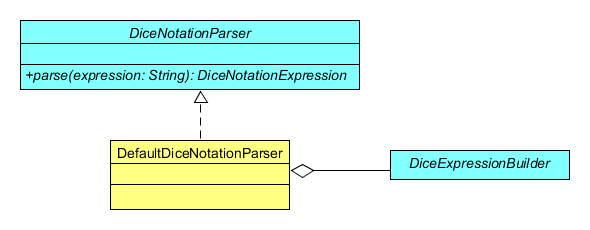
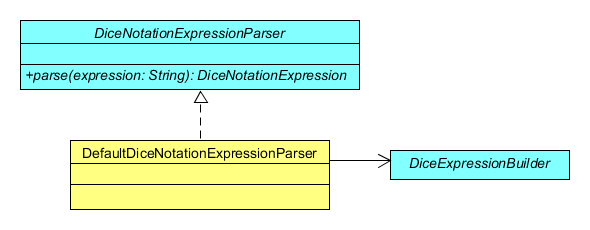
Divided grammar into lexer and parser rules

Changed region(s): [[0.0915, 0.6087, 0.6712, 0.913], [0.1525, 0.1217, 0.4881, 0.1826]]

diff --git a/src/main/java/com/wandrell/tabletop/dice/parser/DefaultDiceNotationExpressionParser.java b/src/main/java/com/wandrell/tabletop/dice/parser/DefaultDiceNotationExpressionParser.java
@@ -23,8 +23,8 @@ import org.antlr.v4.runtime.CharStreams;
 import org.antlr.v4.runtime.CommonTokenStream;
 import org.antlr.v4.runtime.TokenStream;
 
-import com.wandrell.tabletop.dice.generated.DiceNotationGrammarLexer;
-import com.wandrell.tabletop.dice.generated.DiceNotationGrammarParser;
+import com.wandrell.tabletop.dice.generated.DiceNotationLexer;
+import com.wandrell.tabletop.dice.generated.DiceNotationParser;
 import com.wandrell.tabletop.dice.notation.DiceNotationExpression;
 import com.wandrell.tabletop.dice.parser.listener.DefaultDiceExpressionBuilder;
 import com.wandrell.tabletop.dice.parser.listener.DefaultErrorListener;
@@ -43,7 +43,8 @@ import com.wandrell.tabletop.dice.roller.Roller;
  * 
  * @author Bernardo Mart&iacute;nez Garrido
  */
-public final class DefaultDiceNotationParser implements DiceNotationParser {
+public final class DefaultDiceNotationExpressionParser
+        implements DiceNotationExpressionParser {
 
     /**
      * Visitor used to build the returned object.
@@ -59,7 +60,7 @@ public final class DefaultDiceNotationParser implements DiceNotationParser {
      * <p>
      * It makes use of a {@link DefaultDiceExpressionBuilder}.
      */
-    public DefaultDiceNotationParser() {
+    public DefaultDiceNotationExpressionParser() {
         super();
 
         expressionBuilder = new DefaultDiceExpressionBuilder();
@@ -71,7 +72,8 @@ public final class DefaultDiceNotationParser implements DiceNotationParser {
      * @param builder
      *            builder to generate the returned tree
      */
-    public DefaultDiceNotationParser(final DiceExpressionBuilder builder) {
+    public DefaultDiceNotationExpressionParser(
+            final DiceExpressionBuilder builder) {
         super();
 
         expressionBuilder = checkNotNull(builder,
@@ -86,7 +88,7 @@ public final class DefaultDiceNotationParser implements DiceNotationParser {
      * @param roller
      *            roller for the dice expressions
      */
-    public DefaultDiceNotationParser(final Roller roller) {
+    public DefaultDiceNotationExpressionParser(final Roller roller) {
         super();
 
         expressionBuilder = new DefaultDiceExpressionBuilder(roller);
@@ -94,7 +96,7 @@ public final class DefaultDiceNotationParser implements DiceNotationParser {
 
     @Override
     public final DiceNotationExpression parse(final String expression) {
-        final DiceNotationGrammarParser parser; // ANTLR parser
+        final DiceNotationParser parser; // ANTLR parser
 
         checkNotNull(expression, "Received a null pointer as string");
 
@@ -123,17 +125,17 @@ public final class DefaultDiceNotationParser implements DiceNotationParser {
      *            expression used to generate the parser
      * @return an ANTLR4 parser tailored for the expression
      */
-    private final DiceNotationGrammarParser
+    private final DiceNotationParser
             buildDiceNotationParser(final String expression) {
-        final CharStream stream;              // Input stream for the expression
-        final DiceNotationGrammarLexer lexer; // Lexer for the expression tokens
-        final TokenStream tokens;             // Expression tokens
+        final CharStream stream;       // Input stream for the expression
+        final DiceNotationLexer lexer; // Lexer for the expression tokens
+        final TokenStream tokens;      // Expression tokens
 
         stream = CharStreams.fromString(expression);
-        lexer = new DiceNotationGrammarLexer(stream);
+        lexer = new DiceNotationLexer(stream);
         tokens = new CommonTokenStream(lexer);
 
-        return new DiceNotationGrammarParser(tokens);
+        return new DiceNotationParser(tokens);
     }
 
     /**

diff --git a/src/test/java/com/wandrell/tabletop/dice/test/integration/parser/AbstractITDefaultDiceNotationExpressionParser.java b/src/test/java/com/wandrell/tabletop/dice/test/integration/parser/AbstractITDefaultDiceNotationExpressionParser.java
@@ -17,22 +17,22 @@
 package com.wandrell.tabletop.dice.test.integration.parser;
 
 import com.wandrell.tabletop.dice.notation.DiceNotationExpression;
-import com.wandrell.tabletop.dice.parser.DefaultDiceNotationParser;
-import com.wandrell.tabletop.dice.parser.DiceNotationParser;
+import com.wandrell.tabletop.dice.parser.DefaultDiceNotationExpressionParser;
+import com.wandrell.tabletop.dice.parser.DiceNotationExpressionParser;
 import com.wandrell.tabletop.dice.roller.DefaultRoller;
 
 /**
- * Abstract base test for the {@code DefaultDiceNotationParser}.
+ * Abstract base test for the {@code DefaultDiceNotationExpressionParser}.
  * 
  * @author Bernardo Mart&iacute;nez Garrido
  *
  */
-public abstract class AbstractITDefaultDiceNotationParser {
+public abstract class AbstractITDefaultDiceNotationExpressionParser {
 
     /**
      * Default constructor.
      */
-    public AbstractITDefaultDiceNotationParser() {
+    public AbstractITDefaultDiceNotationExpressionParser() {
         super();
     }
 
@@ -46,9 +46,9 @@ public abstract class AbstractITDefaultDiceNotationParser {
      * @return the parsed object
      */
     protected final DiceNotationExpression parse(final String expression) {
-        final DiceNotationParser parser; // Parser to test
+        final DiceNotationExpressionParser parser; // Parser to test
 
-        parser = new DefaultDiceNotationParser(new DefaultRoller());
+        parser = new DefaultDiceNotationExpressionParser(new DefaultRoller());
 
         return parser.parse(expression);
     }

diff --git a/src/main/java/com/wandrell/tabletop/dice/parser/listener/DefaultDiceExpressionBuilder.java b/src/main/java/com/wandrell/tabletop/dice/parser/listener/DefaultDiceExpressionBuilder.java
@@ -24,10 +24,10 @@ import org.antlr.v4.runtime.tree.TerminalNode;
 
 import com.wandrell.tabletop.dice.DefaultDice;
 import com.wandrell.tabletop.dice.Dice;
-import com.wandrell.tabletop.dice.generated.DiceNotationGrammarBaseListener;
-import com.wandrell.tabletop.dice.generated.DiceNotationGrammarParser.BinaryOpContext;
-import com.wandrell.tabletop.dice.generated.DiceNotationGrammarParser.DiceContext;
-import com.wandrell.tabletop.dice.generated.DiceNotationGrammarParser.FunctionContext;
+import com.wandrell.tabletop.dice.generated.DiceNotationBaseListener;
+import com.wandrell.tabletop.dice.generated.DiceNotationParser.BinaryOpContext;
+import com.wandrell.tabletop.dice.generated.DiceNotationParser.DiceContext;
+import com.wandrell.tabletop.dice.generated.DiceNotationParser.FunctionContext;
 import com.wandrell.tabletop.dice.notation.DiceNotationExpression;
 import com.wandrell.tabletop.dice.notation.operand.DefaultDiceOperand;
 import com.wandrell.tabletop.dice.notation.operand.DiceOperand;
@@ -51,8 +51,8 @@ import com.wandrell.tabletop.dice.roller.Roller;
  * 
  * @author Bernardo Mart&iacute;nez Garrido
  */
-public final class DefaultDiceExpressionBuilder extends
-        DiceNotationGrammarBaseListener implements DiceExpressionBuilder {
+public final class DefaultDiceExpressionBuilder extends DiceNotationBaseListener
+        implements DiceExpressionBuilder {
 
     /**
      * Operator which indicates the operation is an addition.

diff --git a/src/main/java/com/wandrell/tabletop/dice/parser/package-info.java b/src/main/java/com/wandrell/tabletop/dice/parser/package-info.java
@@ -20,12 +20,12 @@
  * These will take a string with a dice notation expression and return a tree of
  * dice notation model objects.
  * <p>
- * The {@link com.wandrell.tabletop.dice.parser.DiceNotationParser
- * DiceNotationParser} allows creating custom parsers, but one is already
- * implemented, the
- * {@link com.wandrell.tabletop.dice.parser.DefaultDiceNotationParser
- * DefaultDiceNotationParser}, which makes use of the classes generated from an
- * ANTLR4 grammar to parse dice expressions.
+ * The {@link com.wandrell.tabletop.dice.parser.DiceNotationExpressionParser
+ * DiceNotationExpressionParser} allows creating custom parsers, but one is
+ * already implemented, the
+ * {@link com.wandrell.tabletop.dice.parser.DefaultDiceNotationExpressionParser
+ * DefaultDiceNotationExpressionParser}, which makes use of the classes
+ * generated from an ANTLR4 grammar to parse dice expressions.
  */
 
 package com.wandrell.tabletop.dice.parser;

diff --git a/src/test/java/com/wandrell/tabletop/dice/test/integration/parser/ITDefaultDiceNotationExpressionParserBinaryOperation.java b/src/test/java/com/wandrell/tabletop/dice/test/integration/parser/ITDefaultDiceNotationExpressionParserBinaryOperation.java
@@ -25,18 +25,18 @@ import com.wandrell.tabletop.dice.notation.operation.AdditionOperation;
 import com.wandrell.tabletop.dice.notation.operation.BinaryOperation;
 
 /**
- * Integration tests for {@code DefaultDiceNotationParser}, checking that it
+ * Integration tests for {@code DefaultDiceNotationExpressionParser}, checking that it
  * parses simple binary operations.
  * 
  * @author Bernardo Mart&iacute;nez Garrido
  */
-public final class ITDefaultDiceNotationParserBinaryOperation
-        extends AbstractITDefaultDiceNotationParser {
+public final class ITDefaultDiceNotationExpressionParserBinaryOperation
+        extends AbstractITDefaultDiceNotationExpressionParser {
 
     /**
      * Default constructor.
      */
-    public ITDefaultDiceNotationParserBinaryOperation() {
+    public ITDefaultDiceNotationExpressionParserBinaryOperation() {
         super();
     }
 

diff --git a/src/main/java/com/wandrell/tabletop/dice/parser/listener/package-info.java b/src/main/java/com/wandrell/tabletop/dice/parser/listener/package-info.java
@@ -19,12 +19,12 @@
  * <p>
  * The {@link com.wandrell.tabletop.dice.parser.listener.DiceExpressionBuilder
  * DiceExpressionBuilder} is used by the
- * {@link com.wandrell.tabletop.dice.parser.DefaultDiceNotationParser
- * DefaultDiceNotationParser} as a visitor. It will create the returned dice
+ * {@link com.wandrell.tabletop.dice.parser.DefaultDiceNotationExpressionParser
+ * DefaultDiceNotationExpressionParser} as a visitor. It will create the returned dice
  * notation model tree as it goes through the parsed grammar tree.
  * <p>
  * The {@link com.wandrell.tabletop.dice.parser.listener.DefaultErrorListener
- * DefaultErrorListener} is also used by the {@code DefaultDiceNotationParser},
+ * DefaultErrorListener} is also used by the {@code DefaultDiceNotationExpressionParser},
  * but to throw exceptions when there is a parsing error.
  */
 

diff --git a/src/test/java/com/wandrell/tabletop/dice/test/integration/parser/ITDefaultDiceNotationExpressionParserDice.java b/src/test/java/com/wandrell/tabletop/dice/test/integration/parser/ITDefaultDiceNotationExpressionParserDice.java
@@ -24,18 +24,18 @@ import com.wandrell.tabletop.dice.notation.DiceNotationExpression;
 import com.wandrell.tabletop.dice.notation.operand.DiceOperand;
 
 /**
- * Integration tests for {@code DefaultDiceNotationParser}, checking that it
+ * Integration tests for {@code DefaultDiceNotationExpressionParser}, checking that it
  * parses dice notation expressions for single dice groups.
  * 
  * @author Bernardo Mart&iacute;nez Garrido
  */
-public final class ITDefaultDiceNotationParserDice
-        extends AbstractITDefaultDiceNotationParser {
+public final class ITDefaultDiceNotationExpressionParserDice
+        extends AbstractITDefaultDiceNotationExpressionParser {
 
     /**
      * Default constructor.
      */
-    public ITDefaultDiceNotationParserDice() {
+    public ITDefaultDiceNotationExpressionParserDice() {
         super();
     }
 

diff --git a/src/test/java/com/wandrell/tabletop/dice/test/integration/parser/ITDefaultDiceNotationExpressionParserComplex.java b/src/test/java/com/wandrell/tabletop/dice/test/integration/parser/ITDefaultDiceNotationExpressionParserComplex.java
@@ -25,18 +25,18 @@ import com.wandrell.tabletop.dice.notation.operation.AdditionOperation;
 import com.wandrell.tabletop.dice.notation.operation.SubtractionOperation;
 
 /**
- * Integration tests for {@code DefaultDiceNotationParser}, checking that it
+ * Integration tests for {@code DefaultDiceNotationExpressionParser}, checking that it
  * parses complex operations.
  * 
  * @author Bernardo Mart&iacute;nez Garrido
  */
-public final class ITDefaultDiceNotationParserComplex
-        extends AbstractITDefaultDiceNotationParser {
+public final class ITDefaultDiceNotationExpressionParserComplex
+        extends AbstractITDefaultDiceNotationExpressionParser {
 
     /**
      * Default constructor.
      */
-    public ITDefaultDiceNotationParserComplex() {
+    public ITDefaultDiceNotationExpressionParserComplex() {
         super();
     }
 

diff --git a/src/test/java/com/wandrell/tabletop/dice/test/integration/parser/ITDefaultDiceNotationExpressionParserException.java b/src/test/java/com/wandrell/tabletop/dice/test/integration/parser/ITDefaultDiceNotationExpressionParserException.java
@@ -19,18 +19,18 @@ package com.wandrell.tabletop.dice.test.integration.parser;
 import org.testng.annotations.Test;
 
 /**
- * Integration tests for {@code DefaultDiceNotationParser}, checking that it
+ * Integration tests for {@code DefaultDiceNotationExpressionParser}, checking that it
  * throws exceptions when required.
  * 
  * @author Bernardo Mart&iacute;nez Garrido
  */
-public final class ITDefaultDiceNotationParserException
-        extends AbstractITDefaultDiceNotationParser {
+public final class ITDefaultDiceNotationExpressionParserException
+        extends AbstractITDefaultDiceNotationExpressionParser {
 
     /**
      * Default constructor.
      */
-    public ITDefaultDiceNotationParserException() {
+    public ITDefaultDiceNotationExpressionParserException() {
         super();
     }
 

diff --git a/src/test/java/com/wandrell/tabletop/dice/test/integration/parser/ITDefaultDiceNotationExpressionParserNumber.java b/src/test/java/com/wandrell/tabletop/dice/test/integration/parser/ITDefaultDiceNotationExpressionParserNumber.java
@@ -22,18 +22,18 @@ import org.testng.annotations.Test;
 import com.wandrell.tabletop.dice.notation.operand.IntegerOperand;
 
 /**
- * Integration tests for {@code DefaultDiceNotationParser}, checking that it
- * parses numbers.
+ * Integration tests for {@code DefaultDiceNotationExpressionParser}, checking
+ * that it parses numbers.
  * 
  * @author Bernardo Mart&iacute;nez Garrido
  */
-public final class ITDefaultDiceNotationParserNumber
-        extends AbstractITDefaultDiceNotationParser {
+public final class ITDefaultDiceNotationExpressionParserNumber
+        extends AbstractITDefaultDiceNotationExpressionParser {
 
     /**
      * Default constructor.
      */
-    public ITDefaultDiceNotationParserNumber() {
+    public ITDefaultDiceNotationExpressionParserNumber() {
         super();
     }
 

diff --git a/src/main/java/com/wandrell/tabletop/dice/parser/listener/DiceExpressionBuilder.java b/src/main/java/com/wandrell/tabletop/dice/parser/listener/DiceExpressionBuilder.java
@@ -16,7 +16,7 @@
 
 package com.wandrell.tabletop.dice.parser.listener;
 
-import com.wandrell.tabletop.dice.generated.DiceNotationGrammarListener;
+import com.wandrell.tabletop.dice.generated.DiceNotationListener;
 import com.wandrell.tabletop.dice.notation.DiceNotationExpression;
 
 /**
@@ -28,7 +28,7 @@ import com.wandrell.tabletop.dice.notation.DiceNotationExpression;
  * 
  * @author Bernardo Mart&iacute;nez Garrido
  */
-public interface DiceExpressionBuilder extends DiceNotationGrammarListener {
+public interface DiceExpressionBuilder extends DiceNotationListener {
 
     /**
      * Returns the root for the tree of dice notation model objects.

diff --git a/src/main/java/com/wandrell/tabletop/dice/parser/DiceNotationExpressionParser.java b/src/main/java/com/wandrell/tabletop/dice/parser/DiceNotationExpressionParser.java
@@ -27,7 +27,7 @@ import com.wandrell.tabletop.dice.notation.DiceNotationExpression;
  * 
  * @author Bernardo Mart&iacute;nez Garrido
  */
-public interface DiceNotationParser {
+public interface DiceNotationExpressionParser {
 
     /**
      * Transforms a dice notation expression into the dice notation model.
